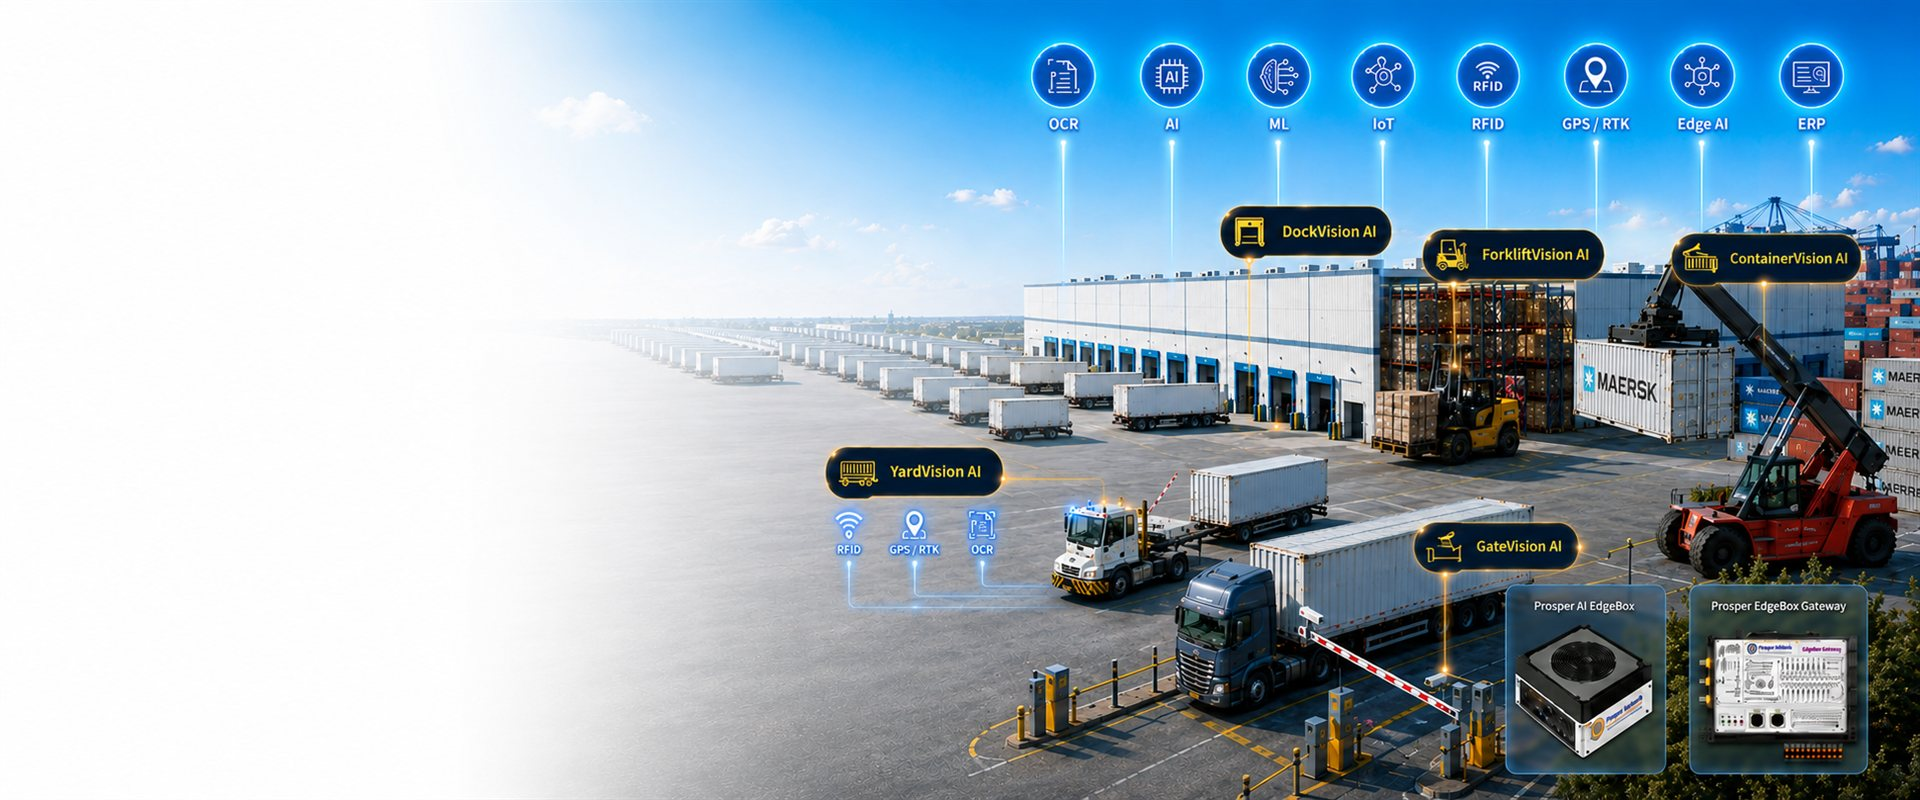
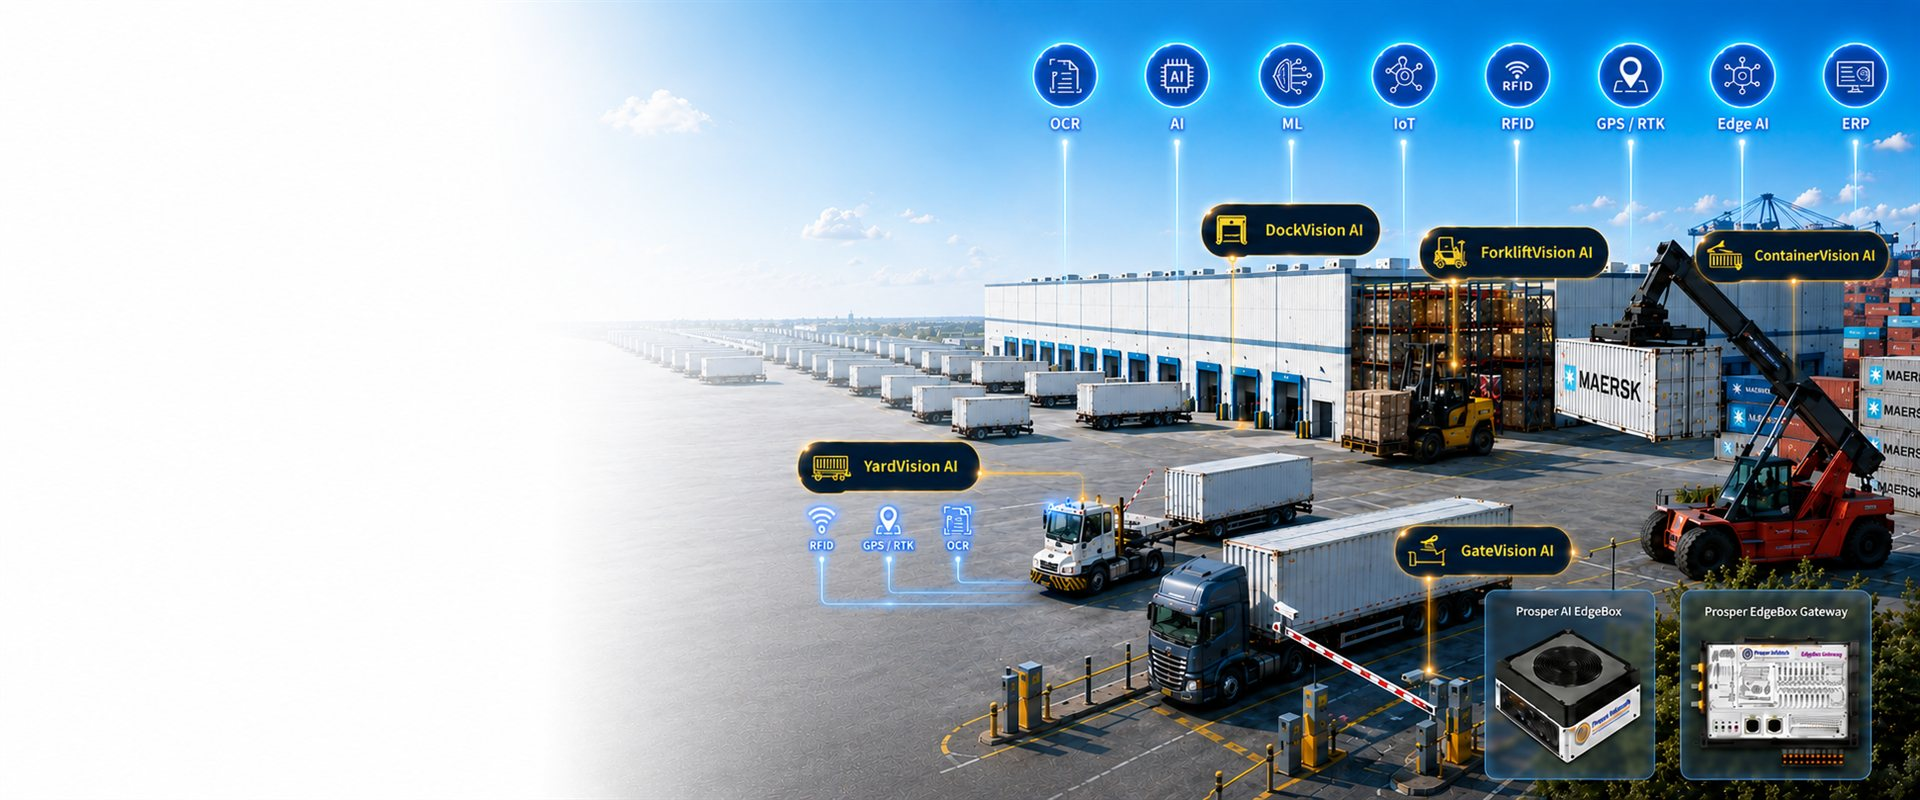
Size hero feature slide to its image's aspect ratio on desktop
Swaps in the latest AI+Vision+IoT graphic and sets the hero section's
desktop height via aspect-[1942/809] (matching the image exactly)
when the feature slide is active, so the full infographic — top icon
row through the EdgeBox panels — renders with zero cropping instead
of losing ~20px off the top/bottom under the old fixed 560px height.
Other slides and the mobile layout are untouched.

diff --git a/src/components/sections/Hero.jsx b/src/components/sections/Hero.jsx
@@ -101,7 +101,13 @@ export default function Hero() {
   const isFeature = slide.layout === 'feature'
 
   return (
-    <section className="relative h-[82vh] min-h-[560px] max-h-[760px] lg:h-[560px] lg:min-h-0 lg:max-h-none overflow-hidden bg-navy">
+    <section
+      className={`relative overflow-hidden bg-navy ${
+        isFeature
+          ? 'h-[82vh] min-h-[560px] max-h-[760px] lg:h-auto lg:aspect-[1942/809] lg:max-h-[820px]'
+          : 'h-[82vh] min-h-[560px] max-h-[760px] lg:h-[560px] lg:min-h-0 lg:max-h-none'
+      }`}
+    >
       <AnimatePresence mode="sync">
         <motion.img
           key={`sharp-${active}`}
